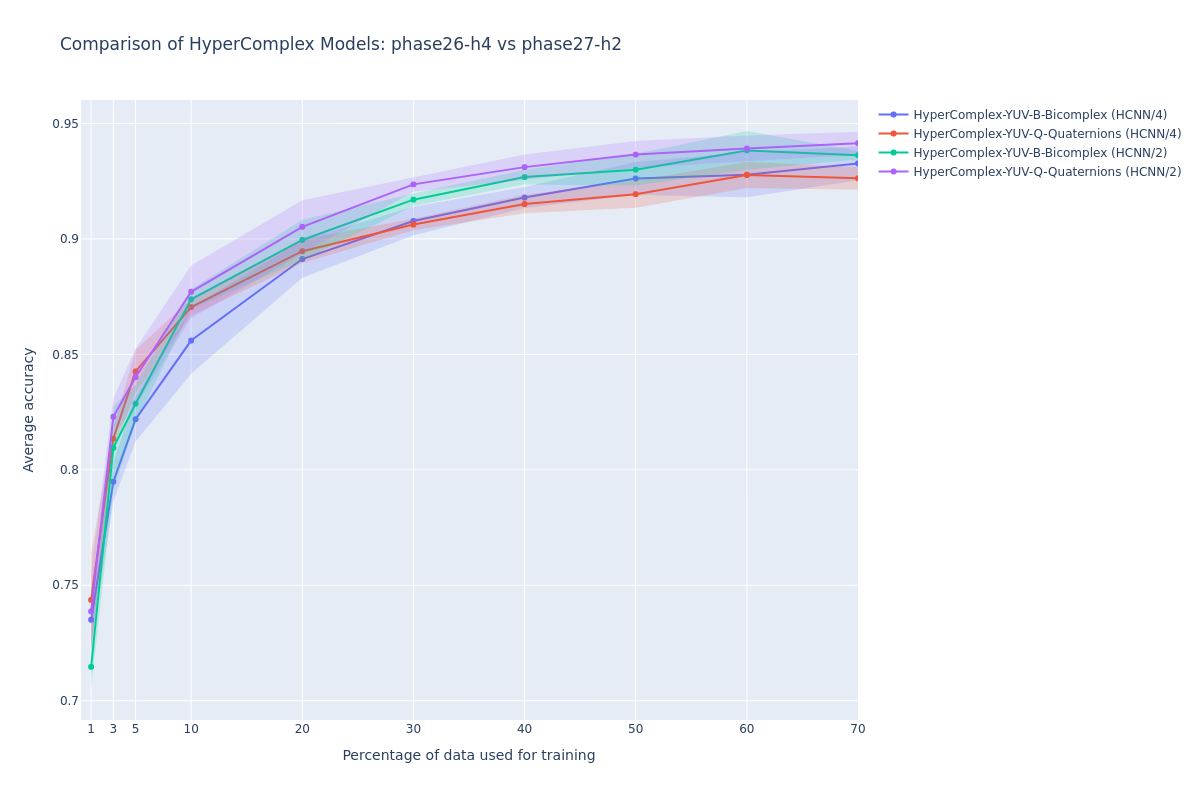
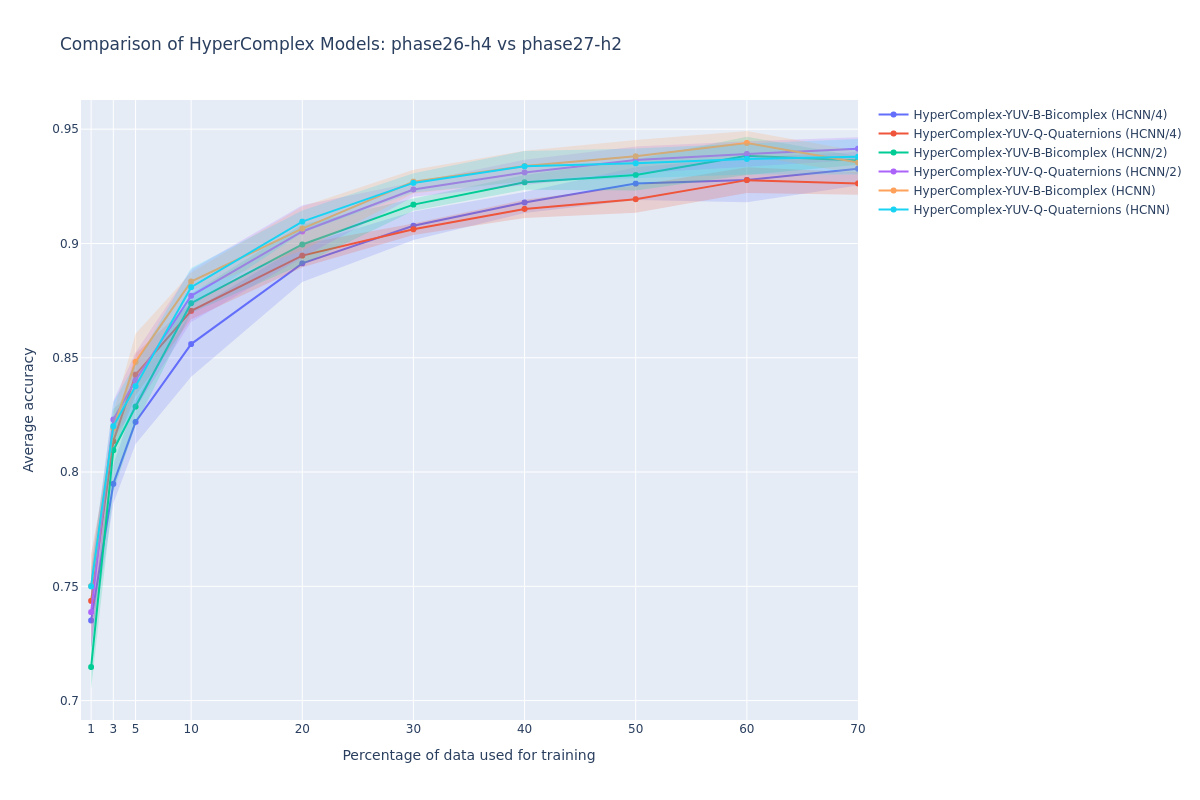
Last results and fin del juego

diff --git a/analysis/RunStatistics.py b/analysis/RunStatistics.py
@@ -123,13 +123,15 @@ def get_average_and_std_evaluation_by_model(data, runs, run_phase, run_labels, e
 
     fig.write_image(os.path.join(run_phase, f"avg_std_{evaluation_key.lower()}_by_model_shaded_plot.png"))
 
-def compare_hypercomplex_models_between_phases_shaded(phase1_path, phase2_path, runs, run_labels, evaluation_key="accuracy"):
+def compare_hypercomplex_models_between_phases_shaded(phase1_path, phase2_path, phase3_path, runs, run_labels, evaluation_key="accuracy"):
     data_phase1 = read_phase_data_statistic(phase1_path, runs, only_hypercomplex=True)
     data_phase2 = read_phase_data_statistic(phase2_path, runs, only_hypercomplex=True)
+    data_phase3 = read_phase_data_statistic(phase3_path, runs, only_hypercomplex=True)
 
     combined_data = {
         f"{"HCNN/4"}": data_phase1,
-        f"{"HCNN/2"}": data_phase2
+        f"{"HCNN/2"}": data_phase2,
+        f"{"HCNN"}": data_phase3
     }
 
     combined_stats = defaultdict(lambda: defaultdict(list))
@@ -209,13 +211,15 @@ def compare_hypercomplex_models_between_phases_shaded(phase1_path, phase2_path, 
 
     fig.write_image(f"between_phases_results/comparison_{phase1_path}_vs_{phase2_path}_{evaluation_key}.png")
 
-def compare_hypercomplex_models_between_phases_errorbars(phase1_path, phase2_path, runs, run_labels, evaluation_key="accuracy"):
+def compare_hypercomplex_models_between_phases_errorbars(phase1_path, phase2_path, phase3_path, runs, run_labels, evaluation_key="accuracy"):
     data_phase1 = read_phase_data_statistic(phase1_path, runs, only_hypercomplex=True)
     data_phase2 = read_phase_data_statistic(phase2_path, runs, only_hypercomplex=True)
+    data_phase3 = read_phase_data_statistic(phase3_path, runs, only_hypercomplex=True)
 
     combined_data = {
         f"{"HCNN/4"}": data_phase1,
-        f"{"HCNN/2"}": data_phase2
+        f"{"HCNN/2"}": data_phase2,
+        f"{"HCNN"}": data_phase3
     }
 
     combined_stats = defaultdict(lambda: defaultdict(list))
@@ -286,6 +290,75 @@ def compare_hypercomplex_models_between_phases_errorbars(phase1_path, phase2_pat
     fig.write_image(f"between_phases_results/comparison_{phase1_path}_vs_{phase2_path}_{evaluation_key}_errorbars.png")
 
 
+def compare_hypercomplex_models_between_phases_average(phase1_path, phase2_path, phase3_path, runs, run_labels, evaluation_key="accuracy"):
+    data_phase1 = read_phase_data_statistic(phase1_path, runs, only_hypercomplex=True)
+    data_phase2 = read_phase_data_statistic(phase2_path, runs, only_hypercomplex=True)
+    data_phase3 = read_phase_data_statistic(phase3_path, runs, only_hypercomplex=False)
+
+    combined_data = {
+        f"HCNN/4": data_phase1,
+        f"HCNN/2": data_phase2,
+        f"HCNN": data_phase3
+    }
+
+    combined_stats = defaultdict(lambda: defaultdict(list))
+
+    for phase_name, phase_data in combined_data.items():
+        for iteration_data in phase_data.values():
+            for run_name, run_data in iteration_data.items():
+                for model in run_data:
+                    model_name = model["model_name"]
+                    # if model_name["type"] != "HyperComplex":
+                    #     continue
+                    eval_val = model["evaluation_result"][evaluation_key]
+                    group_key = f'{model_name["type"]}-{model_name["color_space"]}'
+                    if model_name["algebra"]:
+                        group_key += f'-{model_name["algebra"]}'
+                    group_key += f" ({phase_name})" if model_name["type"] == "HyperComplex" else ""
+                    combined_stats[group_key][run_name].append(eval_val)
+
+    fig = go.Figure()
+    colors = plotly.colors.qualitative.Plotly
+    model_names = list(combined_stats.keys())
+    color_map = {model: colors[i % len(colors)] for i, model in enumerate(model_names)}
+
+    for model_name in model_names:
+        run_values = combined_stats[model_name]
+        x, y = [], []
+
+        for run_name in runs:
+            if run_name in run_values:
+                run_label = run_labels[runs.index(run_name)]
+                values = run_values[run_name]
+                avg = np.mean(values)
+
+                x.append(run_label)
+                y.append(avg)
+
+        fig.add_trace(go.Scatter(
+            x=x,
+            y=y,
+            mode='lines+markers',
+            name=model_name,
+            line=dict(width=2, color=color_map[model_name])
+        ))
+
+    fig.update_layout(
+        title=f"Comparison of models for all three parameter ratios (1/4, 1/2, 1)",
+        xaxis=dict(
+            tickmode='array',
+            tickvals=run_labels,
+            ticktext=[str(v) for v in run_labels],
+            range=[0, 70]
+        ),
+        xaxis_title="Percentage of data used for training",
+        yaxis_title=f"Average {evaluation_key}",
+        height=800,
+        width=1200
+    )
+
+    fig.write_image(f"between_phases_results/comparison_{phase1_path}_vs_{phase2_path}_{evaluation_key}_average.png")
+
 RUN_LABELS_SPLIT_5_PLUS = [1, 3, 5, 10, 20, 30, 40, 50, 60, 70]
 RUNS = ["run1", "run2", "run3", "run4", "run5", "run6", "run7", "run8", "run9", "run10"]
 
@@ -295,5 +368,9 @@ get_average_and_std_evaluation_by_model(phase_data, RUNS, "phase26-h4", RUN_LABE
 phase_data = read_phase_data_statistic("phase27-h2", RUNS, only_hypercomplex=False)
 get_average_and_std_evaluation_by_model(phase_data, RUNS, "phase27-h2", RUN_LABELS_SPLIT_5_PLUS, "accuracy")
 
-compare_hypercomplex_models_between_phases_shaded("phase26-h4", "phase27-h2", RUNS, RUN_LABELS_SPLIT_5_PLUS, "accuracy")
-compare_hypercomplex_models_between_phases_errorbars("phase26-h4", "phase27-h2", RUNS, RUN_LABELS_SPLIT_5_PLUS, "accuracy")
+phase_data = read_phase_data_statistic("phase28-h", RUNS, only_hypercomplex=False)
+get_average_and_std_evaluation_by_model(phase_data, RUNS, "phase28-h", RUN_LABELS_SPLIT_5_PLUS, "accuracy")
+
+compare_hypercomplex_models_between_phases_shaded("phase26-h4", "phase27-h2", "phase28-h", RUNS, RUN_LABELS_SPLIT_5_PLUS, "accuracy")
+compare_hypercomplex_models_between_phases_errorbars("phase26-h4", "phase27-h2", "phase28-h", RUNS, RUN_LABELS_SPLIT_5_PLUS, "accuracy")
+compare_hypercomplex_models_between_phases_average("phase26-h4", "phase27-h2", "phase28-h", RUNS, RUN_LABELS_SPLIT_5_PLUS, "accuracy")
